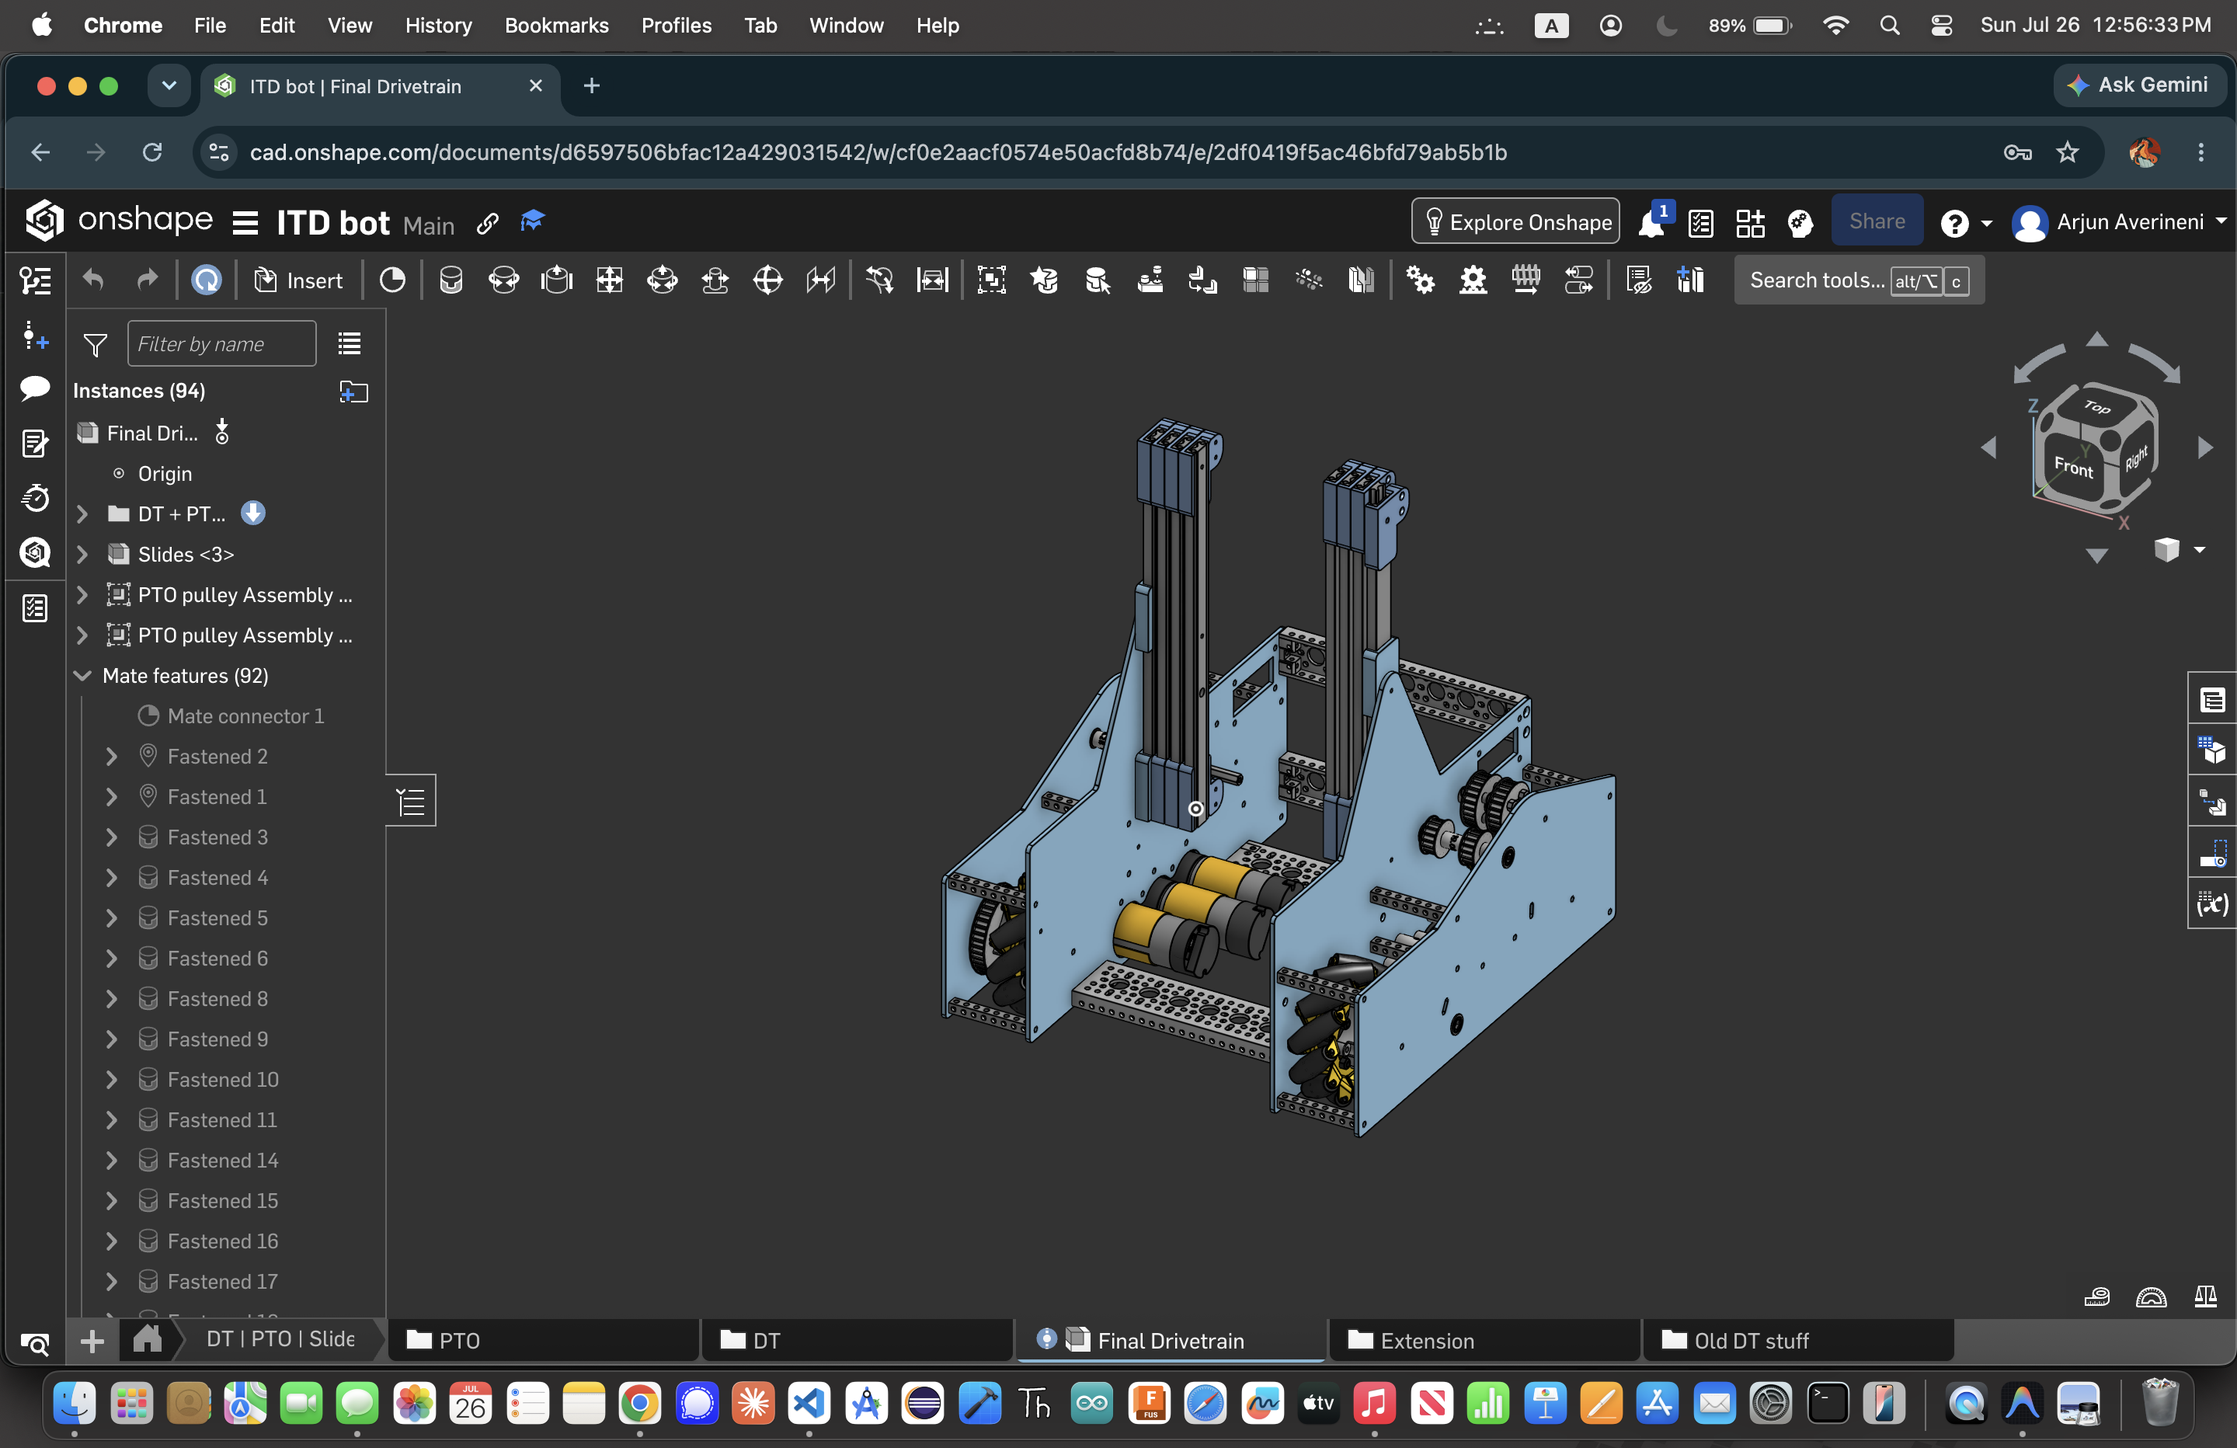
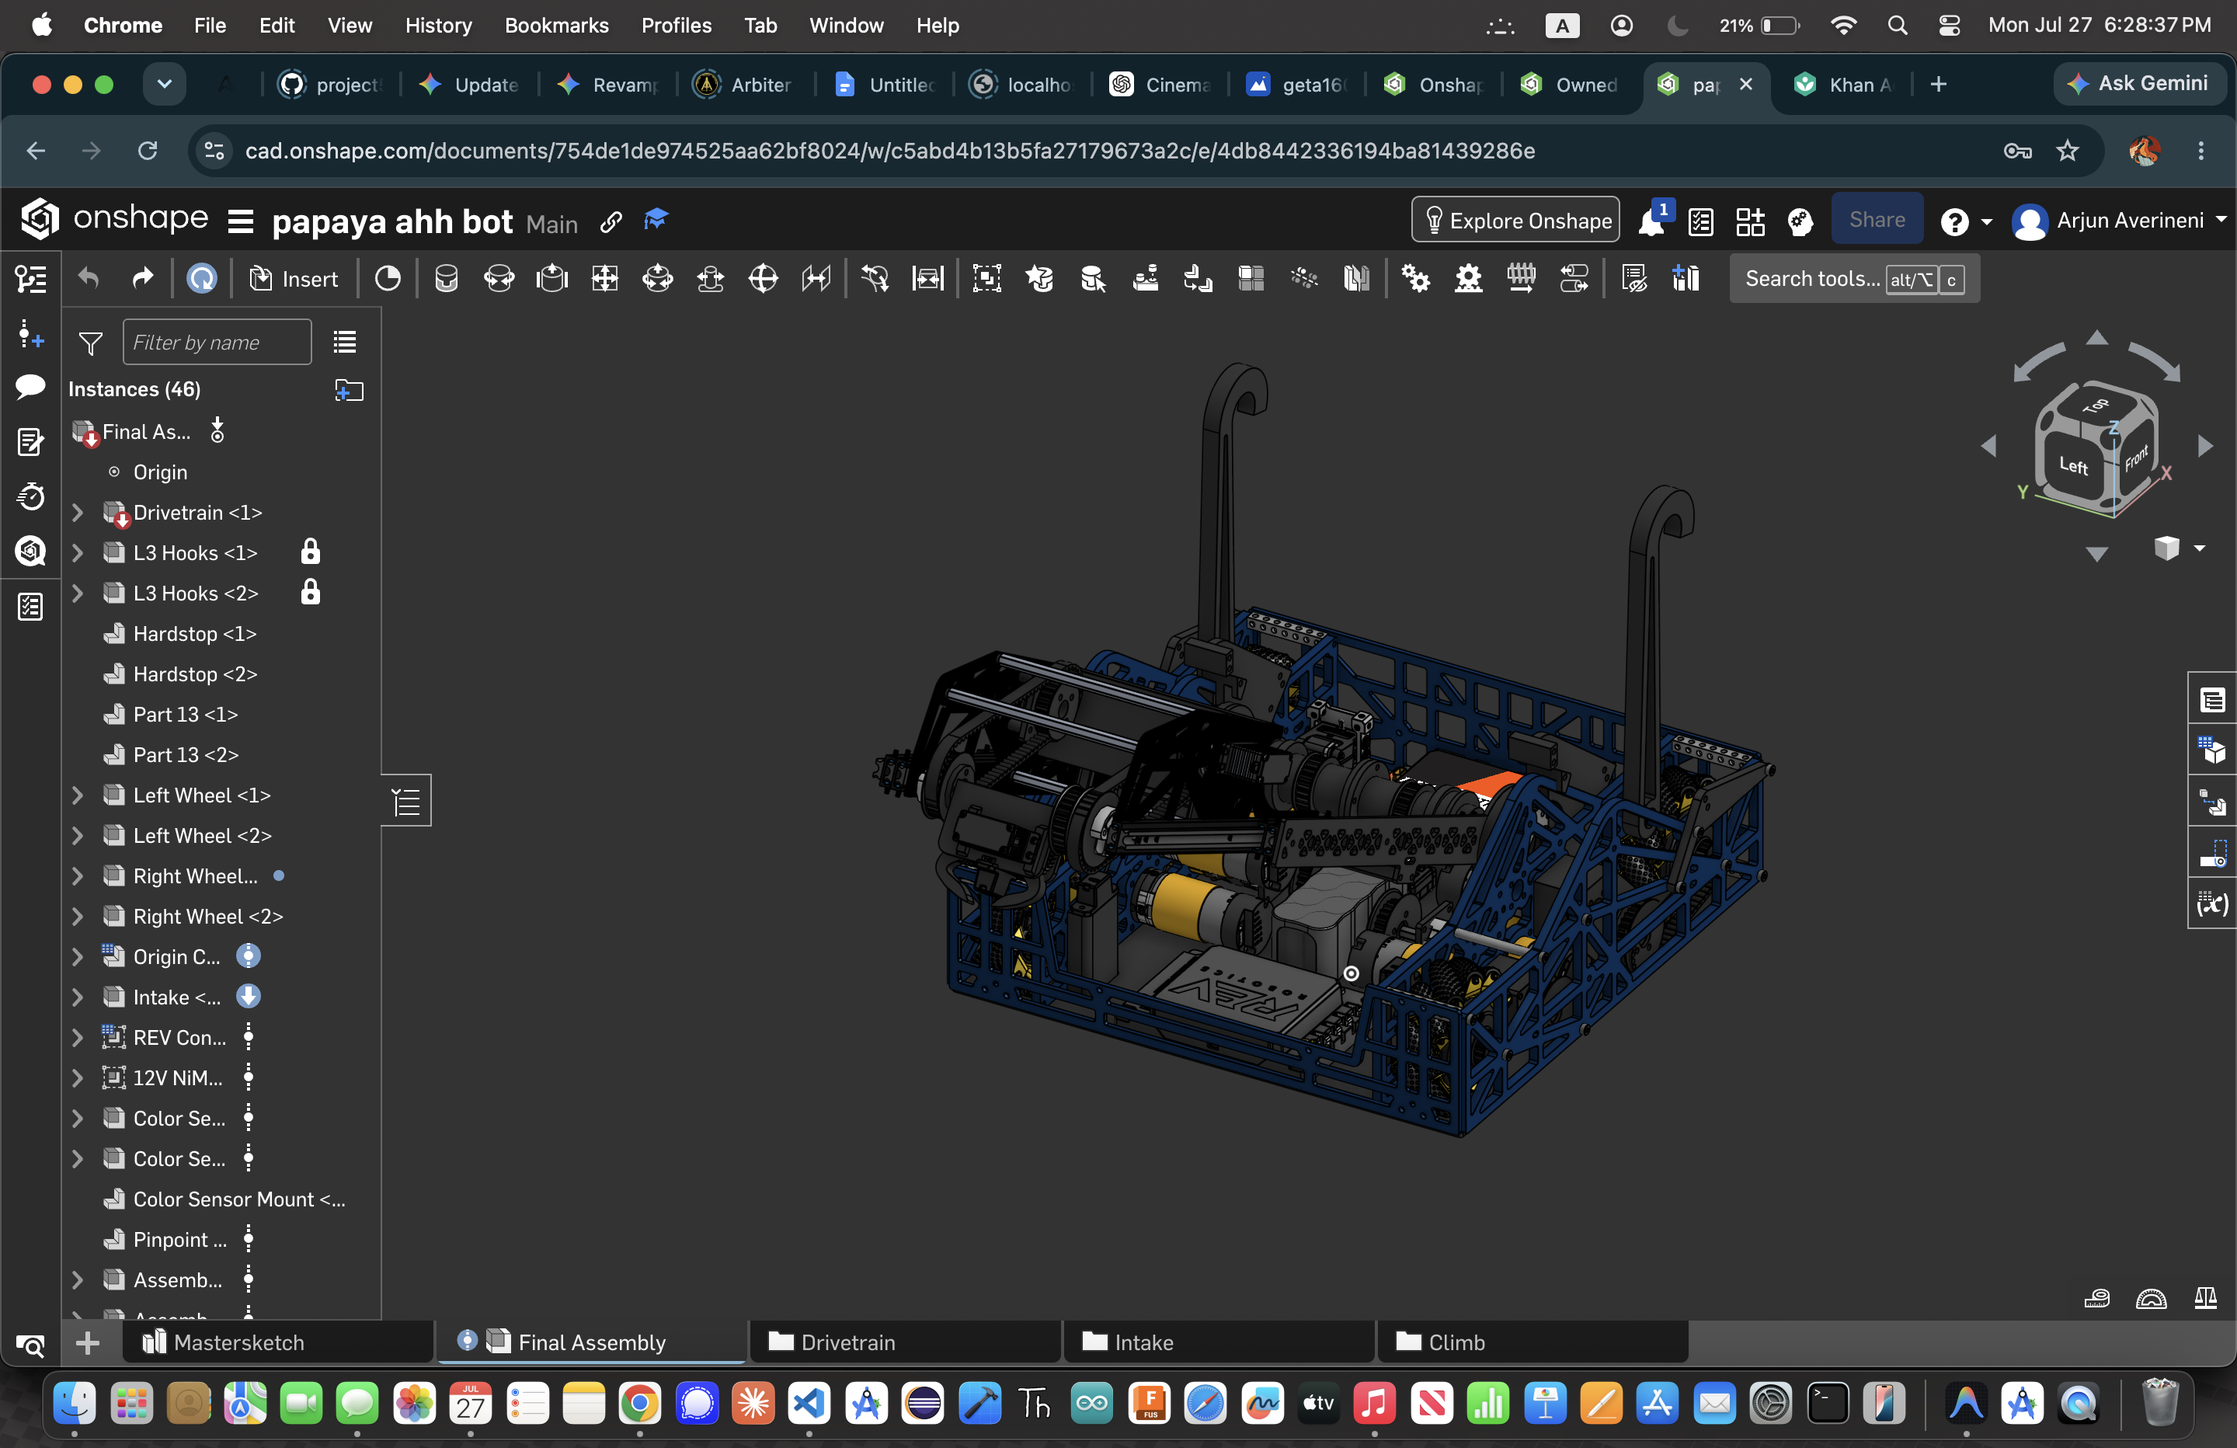
Software

diff --git a/src/routes/index.tsx b/src/routes/index.tsx
@@ -84,7 +84,7 @@ function Arbiter() {
         <div className="loader-half loader-left"></div>
         <div className="loader-half loader-right"></div>
         <div className="loader-console mono">
-          <p id="loader-title" data-text="ARBITER #36500">████ ████ — ████ ██████</p>
+          <p id="loader-title" data-text="ARBITER #36500">████████ ██████████</p>
           <p id="loader-coords">FIRST TECH CHALLENGE</p>
         </div>
       </div>
@@ -330,37 +330,38 @@ function Arbiter() {
           </div>
           <div className="ledger-grid">
             <ul className="ledger-rows">
-              <li><button className="l-row" data-img="dt.png" data-coord="32.8810°N / 117.2376°W">
+              <li><button className="l-row" data-img="dt.png" data-coord="HOLONOMIC DRIVETRAIN">
                 <span className="l-no mono">01</span>
                 <span className="l-name">Holonomic Drivetrain</span>
                 <span className="l-meta mono">INTO THE DEEP · 2026</span>
               </button></li>
-              <li><button className="l-row" data-img="pckt.png" data-coord="45.5017°N / 73.5540°W">
+              <li><button className="l-row" data-img="pckt.png" data-coord="POCKETED PLATES">
                 <span className="l-no mono">02</span>
                 <span className="l-name">Pocketed Plates</span>
                 <span className="l-meta mono">INTO THE DEEP · 2026</span>
               </button></li>
-              <li><button className="l-row" data-img="odom.png" data-coord="51.5202°N / 0.0937°W">
+              <li><button className="l-row" data-img="odom.png" data-coord="ODOMETRY & PINPOINT">
+
                 <span className="l-no mono">03</span>
                 <span className="l-name">Odometry & Pinpoint</span>
                 <span className="l-meta mono">INTO THE DEEP · 2026</span>
               </button></li>
-              <li><button className="l-row" data-img="claw.png" data-coord="42.3603°N / 71.0580°W">
+              <li><button className="l-row" data-img="claw.png" data-coord="PIVOTING CLAW">
                 <span className="l-no mono">04</span>
                 <span className="l-name">Pivoting Claw</span>
                 <span className="l-meta mono">INTO THE DEEP · 2026</span>
               </button></li>
-              <li><button className="l-row" data-img="ex.png" data-coord="43.2612°N / 5.3964°E">
+              <li><button className="l-row" data-img="ex.png" data-coord="EXTENDING ARMS">
                 <span className="l-no mono">05</span>
                 <span className="l-name">Extending Arms</span>
                 <span className="l-meta mono">INTO THE DEEP · 2026</span>
               </button></li>
-              <li><button className="l-row" data-img="pv.png" data-coord="42.7358°N / 25.3937°E">
+              <li><button className="l-row" data-img="pv.png" data-coord="PIVOT MECHANISM">
                 <span className="l-no mono">06</span>
                 <span className="l-name">Pivot Mechanism</span>
                 <span className="l-meta mono">INTO THE DEEP · 2026</span>
               </button></li>
-              <li><button className="l-row" data-img="hng.png" data-coord="44.8125°N / 20.4612°E">
+              <li><button className="l-row" data-img="hng.png" data-coord="HANGING MECHANISM">
                 <span className="l-no mono">07</span>
                 <span className="l-name">Hanging Mechanism</span>
                 <span className="l-meta mono">INTO THE DEEP · 2026</span>
@@ -374,7 +375,7 @@ function Arbiter() {
                 <span className="plate-corner tl"></span><span className="plate-corner tr"></span>
                 <span className="plate-corner bl"></span><span className="plate-corner br"></span>
               </div>
-              <p className="plate-read mono"><span id="plate-coord">32.8810°N / 117.2376°W</span></p>
+              <p className="plate-read mono"><span id="plate-coord">HOLONOMIC DRIVETRAIN</span></p>
             </div>
           </div>
         </section>
@@ -403,8 +404,8 @@ function Arbiter() {
         <section id="route" data-tint="#0D1013">
           <div className="route-stage">
             <div className="route-head">
-              <p className="mono dim sec-label" data-decode="">THE ROUTE / SEVEN LEGS — 14,212 KM</p>
-              <h2 className="sec-title">One line through<br />the concrete century.</h2>
+              <p className="mono dim sec-label" data-decode="">ARBITER #36500 / SOFTWARE</p>
+              <h2 className="sec-title">Fifty Hertz,<br />minimal latency.</h2>
             </div>
             <div className="route-map">
               <svg viewBox="0 0 1200 640" preserveAspectRatio="xMidYMid meet" aria-hidden="true">
@@ -420,29 +421,24 @@ function Arbiter() {
                   <line x1="0" y1="240" x2="1200" y2="240"></line><line x1="0" y1="320" x2="1200" y2="320"></line>
                   <line x1="0" y1="400" x2="1200" y2="400"></line><line x1="0" y1="480" x2="1200" y2="480"></line>
                   <line x1="0" y1="560" x2="1200" y2="560"></line>
-                  {/* latitude ticks — the grid earns its keep */}
-                  <text x="8" y="74">70°N</text><text x="8" y="154">60°N</text>
-                  <text x="8" y="234">50°N</text><text x="8" y="314">40°N</text>
-                  <text x="8" y="394">30°N</text><text x="8" y="474">20°N</text>
-                  <text x="8" y="554">10°N</text>
                 </g>
                 {/* the expedition line — straight survey legs, dashoffset scrubbed 1000 → 0 */}
                 <path id="route-path" pathLength="1000" d="M140,520 L400,350 L480,210 L760,150 L860,330 L990,260 L1080,380"></path>
                 {/* waypoints spread across the full grid; every label sits on the
              side of its dot that the line does NOT pass through */}
-                <g className="wp" data-at="0.01" transform="translate(140,520)"><circle className="wp-ring" r="11"></circle><circle className="wp-dot" r="3.5"></circle><text x="16" y="26">GEISEL LIBRARY</text></g>
-                <g className="wp" data-at="0.25" transform="translate(400,350)"><circle className="wp-ring" r="11"></circle><circle className="wp-dot" r="3.5"></circle><text x="16" y="26">BOSTON CITY HALL</text></g>
-                <g className="wp" data-at="0.37" transform="translate(480,210)"><circle className="wp-ring" r="11"></circle><circle className="wp-dot" r="3.5"></circle><text x="14" y="30">HABITAT 67</text></g>
-                <g className="wp" data-at="0.60" transform="translate(760,150)"><circle className="wp-ring" r="11"></circle><circle className="wp-dot" r="3.5"></circle><text x="14" y="-16">BARBICAN ESTATE</text></g>
-                <g className="wp" data-at="0.76" transform="translate(860,330)"><circle className="wp-ring" r="11"></circle><circle className="wp-dot" r="3.5"></circle><text x="14" y="30">UNITÉ D'HABITATION</text></g>
-                <g className="wp" data-at="0.88" transform="translate(990,260)"><circle className="wp-ring" r="11"></circle><circle className="wp-dot" r="3.5"></circle><text x="14" y="-16">WESTERN CITY GATE</text></g>
-                <g className="wp" data-at="0.99" transform="translate(1080,380)"><circle className="wp-ring" r="11"></circle><circle className="wp-dot" r="3.5"></circle><text x="14" y="30" textAnchor="end">BUZLUDZHA</text></g>
+                <g className="wp" data-at="0.01" transform="translate(140,520)"><circle className="wp-ring" r="11"></circle><circle className="wp-dot" r="3.5"></circle><text x="16" y="26">BASIC JAVA</text></g>
+                <g className="wp" data-at="0.25" transform="translate(400,350)"><circle className="wp-ring" r="11"></circle><circle className="wp-dot" r="3.5"></circle><text x="16" y="26">SENSORS & MOTORS</text></g>
+                <g className="wp" data-at="0.37" transform="translate(480,210)"><circle className="wp-ring" r="11"></circle><circle className="wp-dot" r="3.5"></circle><text x="14" y="30">DRIVETRAIN CODE</text></g>
+                <g className="wp" data-at="0.60" transform="translate(760,150)"><circle className="wp-ring" r="11"></circle><circle className="wp-dot" r="3.5"></circle><text x="14" y="-16">COMPUTER VISION</text></g>
+                <g className="wp" data-at="0.76" transform="translate(860,330)"><circle className="wp-ring" r="11"></circle><circle className="wp-dot" r="3.5"></circle><text x="14" y="30">PIDF CONTROL LOOPS</text></g>
+                <g className="wp" data-at="0.88" transform="translate(990,260)"><circle className="wp-ring" r="11"></circle><circle className="wp-dot" r="3.5"></circle><text x="14" y="-16">ODOMETRY</text></g>
+                <g className="wp" data-at="0.99" transform="translate(1080,380)"><circle className="wp-ring" r="11"></circle><circle className="wp-dot" r="3.5"></circle><text x="14" y="30" textAnchor="end">PEDRO PATHING</text></g>
                 {/* the survey pen — rides the tip of the line as it draws */}
                 <g id="route-pen"><circle className="pen-ring" r="9"></circle><circle className="pen-dot" r="3.5"></circle></g>
               </svg>
               <p className="route-read mono">
-                <span id="route-leg">LEG 00 / 07</span>
-                <span id="route-km" className="accent">0 KM</span>
+                <span id="route-leg">01 / 07</span>
+                <span id="route-km" className="accent">#0</span>
               </p>
             </div>
           </div>

diff --git a/public/atlas-brut.js b/public/atlas-brut.js
@@ -68,9 +68,7 @@ document.querySelectorAll('[data-decode]').forEach((el) => {
 });
 
 /* ═══════════════════════════════════════════════════════════════
-   LOADER — coordinates tick on the console while the title
-   decodes, then the two curtain halves split apart and the hero
-   racks into focus (blurred + oversized → sharp, settled).
+   LOADER — static subtitle on the console while title decodes
    ═══════════════════════════════════════════════════════════════ */
 if (!reduceMotion) document.body.style.overflow = 'hidden';
 
@@ -84,30 +82,26 @@ document.fonts.ready.then(() => {
     return;
   }
 
-  // ticking survey coordinates — pure flavour while the title decodes
-  const coordState = { lat: 0, lon: 0 };
-  const coordTick = gsap.to(coordState, {
-    lat: 66.56, lon: 25.39, duration: CONFIG.loaderDuration, ease: 'power2.inOut',
-    onUpdate() {
-      coordsEl.textContent =
-        coordState.lat.toFixed(4) + '° N / ' + coordState.lon.toFixed(4).padStart(8, '0') + '° E';
-    }
-  });
+  // Force the subtitle text to stay static as FIRST TECH CHALLENGE
+  coordsEl.textContent = 'FIRST TECH CHALLENGE';
 
   const intro = gsap.timeline({
     defaults: { ease: CONFIG.ease },
-    onComplete: () => { document.body.style.overflow = ''; window.__atlasIntroDone = true; startHeroIdle(); }
+    onComplete: () => { 
+      document.body.style.overflow = ''; 
+      window.__atlasIntroDone = true; 
+      if (typeof startHeroIdle === 'function') startHeroIdle(); 
+    }
   });
 
   intro
     .add(decode(document.getElementById('loader-title'), { duration: CONFIG.loaderDuration }))
-    .add(coordTick, 0)
     // curtains part
     .to('.loader-left',  { xPercent: -101, duration: 0.9, ease: 'expo.inOut' }, '+=0.2')
     .to('.loader-right', { xPercent: 101,  duration: 0.9, ease: 'expo.inOut' }, '<')
     .to('.loader-console', { autoAlpha: 0, duration: 0.3 }, '<')
     .set(loader, { display: 'none' })
-    // RACK FOCUS — the hero arrives out of focus and snaps sharp
+    // RACK FOCUS — hero camera focus arrival
     .fromTo('.focus-line',
       { scale: 1.18, filter: 'blur(22px)', autoAlpha: 0, transformOrigin: '0% 100%' },
       { scale: 1, filter: 'blur(0px)', autoAlpha: 1, duration: 1.4, stagger: 0.12 }, '-=0.55')
@@ -324,13 +318,11 @@ document.querySelectorAll('.chapter').forEach((chapter) => {
   if (!reduceMotion) {
     // Trigger ledger rows earlier and make the entrance snappier so
     // they appear reliably during fast scrolling.
-    // Trigger ledger rows earlier and make the entrance snappier so
-    // they appear reliably during fast scrolling.
     gsap.from('.l-row', {
-      y: 16, autoAlpha: 0, duration: 0.45, stagger: 0.03, ease: CONFIG.ease,
+      y: 20, autoAlpha: 0, duration: 0.5, stagger: 0.04, ease: CONFIG.ease,
       clearProps: 'opacity,visibility,transform',
-      // start when the ledger top reaches 50% down the viewport (much earlier)
-      scrollTrigger: { trigger: '.ledger-rows', start: 'top 50%' }
+      // start when the ledger top reaches 70% down the viewport (earlier)
+      scrollTrigger: { trigger: '.ledger-rows', start: 'top 70%' }
     });
   }
 }
@@ -536,11 +528,11 @@ window.addEventListener('load', () => ScrollTrigger.refresh());
   const pen = document.getElementById('route-pen');
   const legEl = document.getElementById('route-leg');
   const kmEl = document.getElementById('route-km');
-  const TOTAL_KM = 14212;
+  const TOTAL_KM = 36500;
 
   if (path && reduceMotion) {
-    legEl.textContent = 'LEG 07 / 07 — ARRIVAL · BUZLUDZHA';
-    kmEl.textContent = TOTAL_KM.toLocaleString('en-US') + ' KM';
+    legEl.textContent = '07 / 07 — PEDRO PATHING';
+    kmEl.textContent = '#' + TOTAL_KM;
     wps.forEach((w) => w.classList.add('is-on'));
   } else if (path) {
     // Each waypoint's TRUE fraction along the path — sampled, not
@@ -576,10 +568,10 @@ window.addEventListener('load', () => ScrollTrigger.refresh());
         if (hit) idx = i;
       });
 
-      if (idx < 0) legEl.textContent = 'LEG 00 / 07 — DEPARTING…';
-      else if (idx >= stops.length - 1) legEl.textContent = 'LEG 07 / 07 — ARRIVAL · ' + stops[idx].name;
-      else legEl.textContent = 'LEG ' + String(idx + 1).padStart(2, '0') + ' / 07 — ' + stops[idx].name + ' → ' + stops[idx + 1].name;
-      kmEl.textContent = Math.round(TOTAL_KM * p).toLocaleString('en-US') + ' KM';
+      if (idx < 0) legEl.textContent = '00 / 07 — BEGINNING';
+      else if (idx >= stops.length - 1) legEl.textContent = '07 / 07 — PEDRO PATHING · ' + stops[idx].name;
+      else legEl.textContent = '0' + String(idx + 1) + ' / 07 — ' + stops[idx].name + ' → ' + stops[idx + 1].name;
+      kmEl.textContent = '#' + Math.round(TOTAL_KM * p);
     };
 
     // The drawing completes at 78% of the pin; the last 22% is a HOLD —
